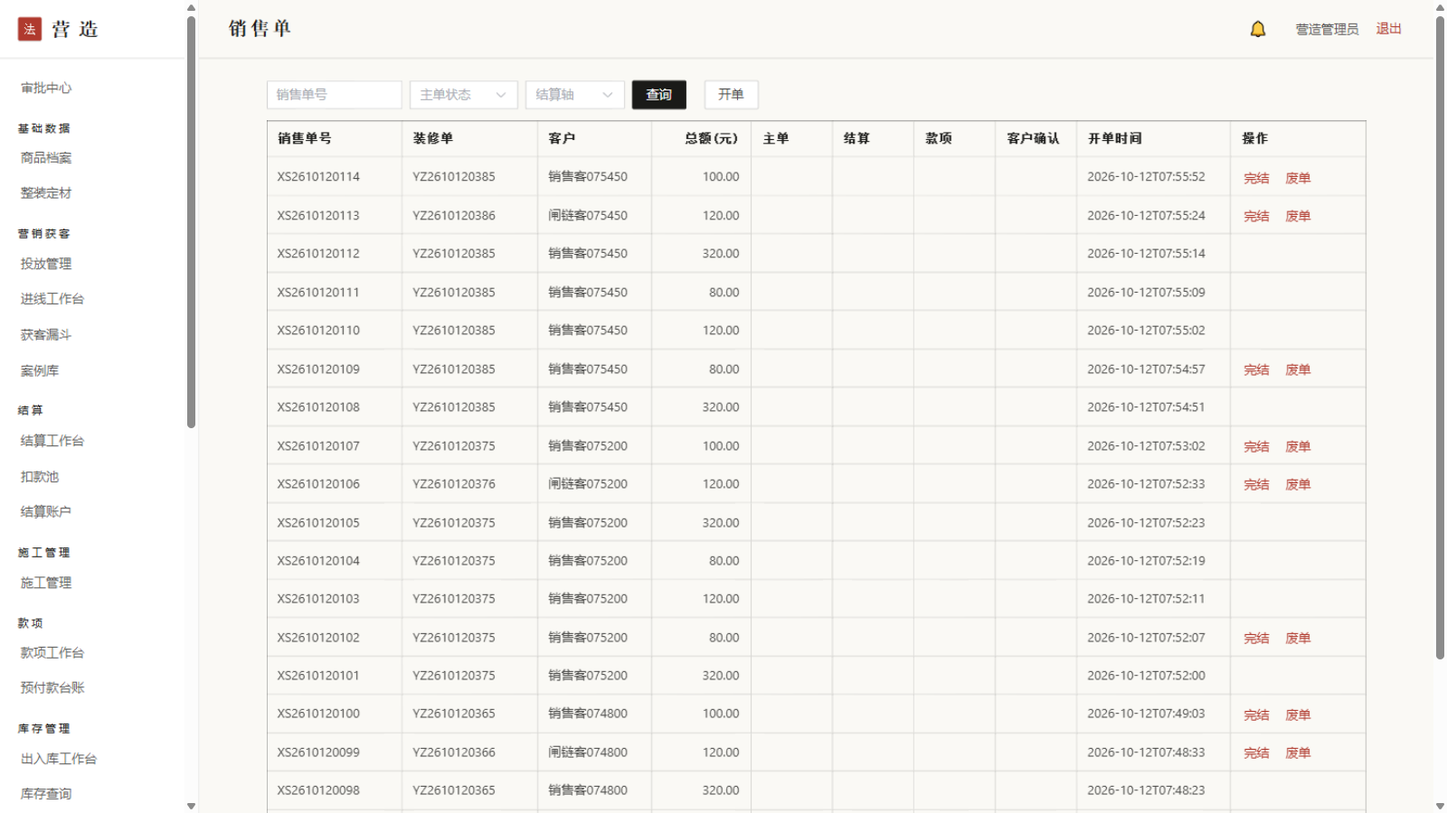
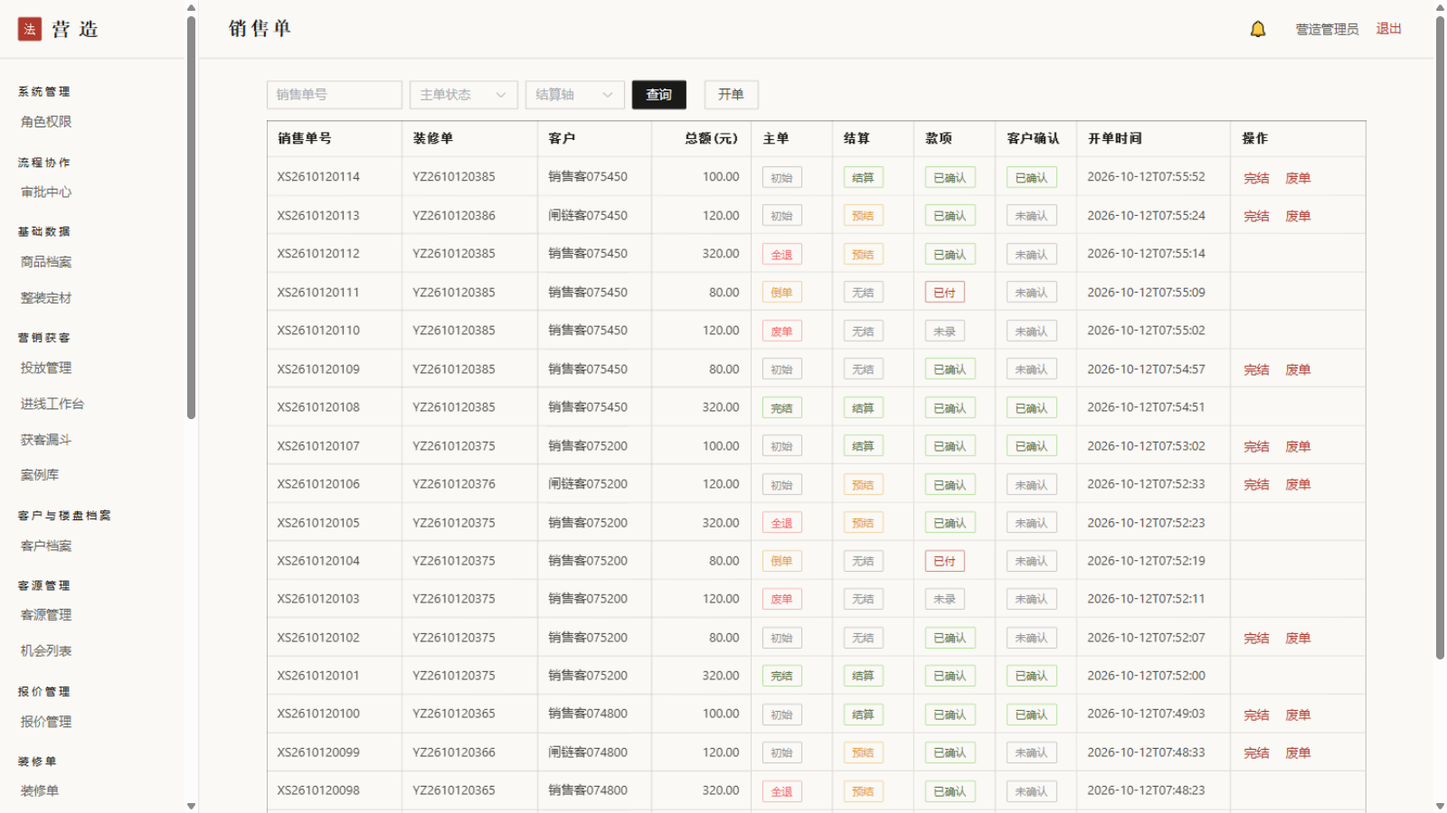
style(web)+style(app): 菜单按业务链固定排序+全局去白统一纸色(用户三轮反馈:侧栏白色/菜单顺序/元素白底残留)。①Layout.vue菜单MENU_ORDER固定业务链序:系统管理(角色权限,仅admin)→流程协作(审批中心)→基础数据→营销获客(漏斗顶端)→客户档案→客源→报价→装修单→施工→销售→库存→款项→结算,组名沿用插件名,未登记插件自动追加尾部前向兼容,非admin自动滤系统组;②侧栏#FFFFFF→var(--yz-paper)融入纸白暖底与内容区同色,仅右缘细墨线分隔;③yingzao.css全局去白(Element Plus变量级):--el-fil

diff --git a/web/src/views/Layout.vue b/web/src/views/Layout.vue
@@ -1,14 +1,13 @@
 <template>
   <div class="shell">
-    <!-- 倒 L 布局:左侧竖向菜单(按插件分组)+顶栏(页题/通知/用户) -->
+    <!-- 倒 L 布局:左侧竖向菜单(按业务链固定顺序分组)+顶栏(页题/通知/用户) -->
     <aside class="sidebar">
-      <div class="brand" @click="$router.push(menus.length ? menus[0].path : '/approvals')">
+      <div class="brand" @click="$router.push(firstMenuPath)">
         <span class="yz-seal-stamp stamp">法</span>
         <span class="logo yz-display">营造</span>
       </div>
       <nav class="menu">
-        <router-link to="/approvals" class="menu-item" :class="{ active: $route.path === '/approvals' }">审批中心</router-link>
-        <template v-for="group in groupedMenus" :key="group.addon">
+        <template v-for="group in menuGroups" :key="group.key">
           <p class="group-name">{{ group.name }}</p>
           <router-link
             v-for="m in group.items"
@@ -17,10 +16,6 @@
             class="menu-item"
             :class="{ active: $route.path === m.path }"
           >{{ m.title }}</router-link>
-        </template>
-        <template v-if="isAdmin">
-          <p class="group-name">系统管理</p>
-          <router-link to="/roles" class="menu-item" :class="{ active: $route.path === '/roles' }">角色权限</router-link>
         </template>
       </nav>
     </aside>
@@ -53,19 +48,44 @@ const displayName = ref(localStorage.getItem('yz_display_name') || '')
 // 管理类入口可见性(RBAC):以登录回显的角色编码为准,服务端守卫才是真闸门
 const isAdmin = JSON.parse(localStorage.getItem('yz_roles') || '[]').includes('admin')
 
-// 左侧菜单按插件分组(组名 = addon.yml 的插件名),保持后端下发顺序
-const groupedMenus = computed(() =>
-  addons.list
-    .map((a) => ({ addon: a.id, name: a.name, items: a.menus || [] }))
-    .filter((g) => g.items.length > 0)
+// 左侧菜单固定业务链顺序:系统 → 流程 → 数据 → 获客 → 客户 → 订单履约(报价/装修/施工)→
+// 供应销售(销售/库存)→ 资金(款项/结算);未登记插件自动追加尾部(前向兼容)
+const MENU_ORDER = ['roles', 'approvals', 'basedata', 'market', 'customerprofile', 'customer',
+  'quotation', 'decoration', 'construction', 'sales', 'inventory', 'payment', 'balance']
+
+const menuGroups = computed(() => {
+  const byKey = {
+    roles: { key: 'roles', name: '系统管理', items: [{ path: '/roles', title: '角色权限' }] },
+    approvals: { key: 'approvals', name: '流程协作', items: [{ path: '/approvals', title: '审批中心' }] },
+  }
+  for (const a of addons.list) {
+    if (a.menus && a.menus.length > 0) {
+      byKey[a.id] = { key: a.id, name: a.name, items: a.menus }
+    }
+  }
+  const groups = []
+  const used = new Set()
+  for (const key of MENU_ORDER) {
+    if (byKey[key]) {
+      groups.push(byKey[key])
+      used.add(key)
+    }
+  }
+  for (const key of Object.keys(byKey)) {
+    if (!used.has(key)) groups.push(byKey[key])
+  }
+  return isAdmin ? groups : groups.filter((g) => g.key !== 'roles')
+})
+
+const firstMenuPath = computed(() =>
+  (menuGroups.value[0] && menuGroups.value[0].items[0] && menuGroups.value[0].items[0].path) || '/approvals'
 )
 
 onMounted(async () => {
   const list = await loadAddons()
   registerAddonRoutes(list)
   if (router.currentRoute.value.path === '/') {
-    const first = groupedMenus.value[0] && groupedMenus.value[0].items[0]
-    if (first) router.push(first.path)
+    router.push(firstMenuPath.value)
   }
 })
 
@@ -83,11 +103,11 @@ function logout() {
   background: var(--yz-paper);
 }
 
-/* 左侧栏:白纸面+右缘细墨线;brand=朱印方章+宋体 */
+/* 左侧栏:融入纸白暖底(与内容区同底色)+右缘细墨线;brand=朱印方章+宋体 */
 .sidebar {
   width: 220px;
   flex-shrink: 0;
-  background: #FFFFFF;
+  background: var(--yz-paper);
   border-right: 1px solid var(--yz-line);
   display: flex;
   flex-direction: column;

diff --git a/app/src/App.vue b/app/src/App.vue
@@ -67,9 +67,9 @@ page {
   text-orientation: upright;
 }
 
-/* 卡片:白纸面+细墨线+方角(材分制:4rpx=2px 微圆角) */
+/* 卡片:纸面+细墨线+方角(与全局纸底同色,靠淡墨线成形;材分制:4rpx=2px 微圆角) */
 .card {
-  background: #FFFFFF;
+  background: var(--yz-paper);
   border: 1rpx solid var(--yz-line);
   border-radius: 4rpx;
   padding: 24rpx;
@@ -120,7 +120,7 @@ page {
   border-radius: 4rpx;
   border: 1rpx solid var(--yz-line);
   color: var(--yz-ink-70);
-  background: #FFFFFF;
+  background: var(--yz-paper);
 }
 
 .btn-mini.success { color: var(--yz-moss); border-color: rgba(90, 114, 71, 0.4); }

diff --git a/web/src/styles/yingzao.css b/web/src/styles/yingzao.css
@@ -40,6 +40,10 @@
   --el-border-color-lighter: rgba(26, 26, 24, 0.10);
   --el-fill-color-light: #F1EFE8;
   --el-fill-color-lighter: #FAF9F5;
+  /* 全局去白:输入框/默认按钮/弹层/抽屉统一纸白暖底(废 #FFFFFF 残留) */
+  --el-fill-color-blank: #FAF9F5;
+  --el-bg-color: #FAF9F5;
+  --el-bg-color-overlay: #FAF9F5;
   --el-text-color-primary: #1A1A18;
   --el-text-color-regular: rgba(26, 26, 24, 0.78);
   --el-text-color-secondary: rgba(26, 26, 24, 0.50);

diff --git a/AGENTS.md b/AGENTS.md
@@ -66,7 +66,7 @@
 - 🔴 冒烟请求含中文必须用 python urllib(UTF-8),Git Bash 的 curl 发中文 = GBK 炸 JSON;
 - jar 被锁:按 8080 端口找 PID `taskkill //PID x //F`。
 
-## 当前进度(2026-10-12 夜间自动任务更新,第 30 次运行)
+## 当前进度(2026-10-12 夜间自动任务更新,第 31 次运行)
 
 - ✅ 41 模块过堂终版;插件框架六点代码化;客源→客户细链冒烟 7/7(b1bde89);客源 V2 分配链冒烟 12/12(9689f13);内核通知中心冒烟 16/16(0d7c914);内核轻量审批状态机冒烟 25/25(b68eb4f);示范插件 addon-example+Web 通知/审批工程页冒烟 28/28(e148667);
 - ✅ **uni-app 移动端骨架 `app/`**(第 6 次,一码三出):uni-app + Vue3 + Vite(@dcloudio 统一 3.0.0-alpha-5030120260930001,vite 5.2.8);八页 = 登录/工作台/客源登记/我的机会/我的审批(三视角+详情全操作)/通知列表/我的;API_BASE 条件编译;`build:h5`/`build:mp-weixin`/`build:app` 三端构建全绿;真机运行待 uni-app 账号与 appid;
@@ -100,13 +100,14 @@
 - ✅ **addon-sales V1 写码交付(第 24 次,写码模式第八个 addon:主材销售域,冒烟 673→864 步全绿终态见第 25 次首验;提交 3ad3e0d)**:①addons-api 新增两契约 `SalesOrderCreatedEvent`/`SalesOrderStatusChangedEvent`(action 键 fullRefund/countermand/finish/terminate)与 **`SalesApi` 只读契约**(collectedRatio 装修单名下销售款收款比例‰,消费方=施工闸)+ **PaymentApi 扩展 `submitRefund`**(实现在 addon-payment,整单退款+270012 幂等闸)+ **GoodsApi 扩展**(GoodsSummary 增 brandId/brandName 结算分组快照+listPackageItems 套餐成员只读,空列表=降级信号);②V1101 十表(counter/order 主单**四轴状态机**(主单轴沿老编号 0/2/3/4/5 缺1 保留+结算轴+款项轴+确认位)/item(package_id 套餐父子+五计数,xgnum 基线=num)/settlement(三段式 1单N品牌行,uk(org,sale,brand,type,rid) 兜底幂等)/refunds 族(审批驱动 3→0→1→2)/delivery 族(四级每级操作人+时间 8 列)/track/verify_code);③服务端算价拒前端金额(disPrice=selling×discount/1000→total=disPrice×num/1000 HALF_UP 长整);开单=DecorationApi 校验合同线非废单终止+套餐展开(子项不计总额老口径,空配置降级普通商品)+单号 XS+yyMMdd+4 位流水(uk 撞号重试不裸炸);改单全量替换守卫款项未付,已录未付自动 cancel+create 同步款项单;客户确认**三重校验服务端强制**(phone+code 同传,修老单传其一即绕过;验证码落表 10 分钟+通知中心转告,短信 V2);完结守卫全款确认+无未完配送;废单守卫四轴全初始放宽款项未付+联动 cancelBill;④**付款三事件回写**(collect→轴1/confirm→轴2+按品牌分组生成预结算行 insert ignore uk 幂等+结算轴 0→1/refunded→退货单已退款)+**库存四事件回写**(XG 扣 xgnum 原子守卫不足=超卖 300008 死信可见/删行回加/PU 加 punum/采购释放扣 punum 修老永不释放与 inventory 直改本域表;计数回写依赖总线 at-least-once 消费确认,exactly-once 待总线幂等表 V2);⑤结算三段式 vpost/post 条件 UPDATE+**vbalance/pbalance 双值人工修正服务端强校验非零且与金额同向**(修老拦截纯前端)+主单结算轴=行最小态重算+**驳回整单原子**(修老只删当前行兄弟残留);让利公式老三套量纲不自洽不迁 V1 balance=total;⑥退货=发起(300025 防重+**发起即原子预扣明细 num** 驳回回加)+内核轻量审批(AFTER_COMMIT+REQUIRES_NEW 军规8 SalesRefundApprovalListener:通过→主单轴 0/5→2/3,驳回→置无效+回加)+客户确认(三重+幂等)→**退货结算负值行**(守卫主单已预结 300019 显式报错修老静默;rid 幂等 300018)+**全退且金额一致→自动 submitRefund**(部分退/不符 300026 落人工);⑦配送=批次生成(守卫初始/完结+款项已付)+四级推进条件 UPDATE+留痕+**越级 300022 显式报错修老静默 continue**+完结回写 trnum;品牌跳级与分成克隆(PRD 默认砍)不迁;⑧**construction 销售款闸启用**(stacheck/fincheck 经 SalesApi,colletionRatio 聚合,免检位语义与装修款闸一致,新码 240025 双语);⑨错误码 300001-300031 同码同消息+i18n 中英双语;addon.yml 0.1.0(码段 300000/三菜单:销售单+结算工作台+配送履约/十组 dicts);⑩Web 三页(SalesOrders 列表四轴徽章+开单+详情抽屉全流转+SalesSettlements 结算工作台+Deliveries 配送看板),api/index.js 二十二函数,菜单动态注册零硬编码;⑪验证:npm build 全绿+dev 库 V1101 十表迁移成功(MySQL 5.6 日志实证)+冒烟最好一轮 **732/735**(3 fail=坏载荷死信环境性×1+**结算占位符错位 bug×2 已修复落码**:insert ignore 12 参对 11 位改 10?10 参)+**库中全链数据实证**(预结两品牌分组/双值修正/厂结/主单轴 3/整单驳回/退货审批/负值行/全退自动退款→PaymentRefundedEvent→退货单已退款);途中冒烟抓出并修复五处:①RefundApprovalListener 与 payment 同名 bean 冲突→更名 SalesRefundApprovalListener ②create() 把计数器 seq 当主单 id→改 insert 后 last_insert_id() ③撞号裸炸 110000→uk 撞号重试 3 次 ④syncBill 未录态误建款项单→updateItems 仅已录态重建/generateBill 无条件确保 ⑤占位符错位(见上);🔴下轮首验已由第 25 次兑现(见下条);自主决策(款项轴 V1 单全款线协议键 sales_full 定金线 V2/免付款通道不迁/让利公式不迁 balance=total/全局唯一流水修老公司级日流水/主单轴沿老编号/结算 4 完结旁路态不迁/验证码经通知转告短信 V2/计数回写幂等妥协声明/部分退货退款落人工/品牌跳级与分成克隆不迁)见报告 §五;
 - ✅ **addon-sales V1 首验全绿收官(第 25 次,第 24 次"下轮首验"兑现)**:①mvn clean package 复编译全绿+npm build 全绿+起服务补齐 smoke README 快退避五环境变量(BACKOFFSECONDS=1/BACKOFFCAP=5/MAXRETRIES=2/POLLINTERVAL=2000/POLLINITIALDELAY=3000);②**冒烟 864/864 全绿一次通过**(673→864;第 24 次 732/735 系 sales 段中途失败提前 return finish() 的截断计数,本夜完整跑通,死信链首次转绿);③增补修复三处(代码已随 3ad3e0d 入库):**退款落人工不阻塞客户确认**(submitRefundForFull 原对金额不符抛 300026 会回滚部分退货的确认事务,违 PRD"落人工"口径→改 refundManual 轨迹留痕,300026 码位保留)/**部分退货不置主单轴**(onApprovalFinished 原一律置 2/3 打死完结,改 drained 判定=主项 SUM(num)=0 才置轴,回归老系统"退货不改主单轴"正统语义 rules/sales.md §5,冒烟互斥断言同步修正)/**冒烟健壮性**(死信固定 sleep 25s 改轮询至多 75s,修默认 60s 退避基数下的必假死+对账 SQL pymysql 参数化后字面 % 转义 %%);④第 24 次 §三"宿主机进程异常"根因实证=**平行无人值守会话遗留后台任务树互杀**(模式:轮询 8080→taskkill 当前持有者→自起 jar→跑冒烟,排队任务陆续触发;PowerShell 哨兵按会话 id 匹配命令行两轮清杀 20+ 排队 bash 后环境清净,冒烟一次全绿);**运行纪律两条**:夜间任务起服务前必查 8080 占用与遗留 java/后台任务(本机可能存在平行会话)/冒烟失败先查服务存活与事件表状态,区分产品缺陷·环境互扰·时序脆弱三类再动手;详见 docs/reports/2026-10-13-第25次运行总结.md;
 - ✅ **addon-balance V1 写码交付(第 26 次,写码模式第九个 addon:结算汇聚域,冒烟 864→1001 全绿一次通过)**:①addons-api 四契约 `SettlementItemReadyEvent`(上游携金额快照,退货行负值生成侧完成)/`SettlementItemWithdrawnEvent`(上游撤回,未锁定桶摘行重算,锁定后死信)/`SettlementItemReleasedEvent`(balance→上游解绑退回,上游自回置对账状态,废直写三字段)/`SettlementSettledEvent`;②addon-sales 回补首个上游接入:结算行 post(结算)发布 Ready(快照=行终值,vpost 不发金额未定),替代老 SALES_AUTO_BALANCE 跨模块服务直调;③V1301 八表(统一结算单+快照行 **uk(source 三元组) 全局只挂一单修老外销防重缺失**/account uk(org,belonger,type) 净头寸不变式 surplus=refer−real/account_detail append-only/池/扣款单/子流水仅留痕修老双计/轨迹全动作覆盖)MySQL 5.6 兼容;④吸附聚桶键=org+settlement_type(sourceAddon:sourceType 复合协议键)+brand+supplier+grade,**select for update 串行化建桶修老并发双桶**;同键同金额重放幂等/同键异金额=上游修正(仅初始态);⑤四态机 0→1→2(可选审)→3→4,终态写拒全断言;⑥账户双腿收编 f384101d3 终态:台账腿原子消耗结算单余量+出纳现金腿原子扣减+**归属账户懒开户同步(insert ignore 兜并发,允许透支=预付)**+守卫族(类型/归属一致/停用/金额恒正)+补出纳入金 cashIn(老收款单语义);⑦扣款池三守卫闭环(池原子 SQL/unbind·deduct 状态守卫/金额恒正)+bind-unbind 精确逆操作对称+绑定时机统一为结算后+返款仅字典预留;⑧完结唯一定义=显式端点(已结算+surplus 清零+已付款)单向无逆向+付款标批量全或无;⑨错误码 320001-320025 双语+addon.yml 0.1.0(三菜单+八组 dicts 含修老字典缺 0 键);⑩Web 三页 Settlements(四态列表+详情抽屉明细快照/双腿操作/流水 timeline)+Accounts(建户/停启/入金/流水)+Cutpays(池+扣款单闭环),api/index.js 三十一函数;⑪验证:mvn+npm 双绿+V1301 迁移成功+冒烟 **864→1001/1001 全绿一次通过**(balance 段 137 步含 sales 真链端到端 post 事件吸附/双死信/不变式 pymysql 直查);⑫途中冒烟抓出并修复:**page 分页查询 List 未 toArray 八处**(queryForList(sql,List) 把 List 当 varargs 单元素绑定→param2 missing 列表端点全 500——balance 四处当场修+**addon-sales 四处潜伏**(orders/refunds/deliveries/settlements 列表,第 24 次冒烟只打 detail 未覆盖,Web 页一开即 500))+冒烟自身三处(漏财务确认步骤/固定 supplier 复跑污染→归属人时间戳化可重复执行/URL %3A 撞 % 格式化);自主决策(绑定时机统一结算后/折扣仅初始态/pending 不迁/返款预留/出纳入金补齐/完结显式端点/供应商身份字符串 grade 上游携带/聚桶含 sourceType/sales vpost 不发/修正语义/停用池闸/吸附零 REST 旁路)见报告 §三;
+- ✅ **菜单业务链排序+全局去白统一纸色(第 31 次,用户三轮反馈:侧栏白色/菜单顺序/元素白底)**:①Layout.vue `MENU_ORDER` 固定业务链序=系统管理(角色权限,admin)→流程协作(审批中心)→基础数据→营销获客(漏斗顶端)→客户档案→客源→报价→装修单→施工→销售→库存→款项→结算;未登记插件自动追加尾部前向兼容,非 admin 滤系统组;②侧栏 `#FFFFFF`→`var(--yz-paper)` 融入纸底仅右缘细墨线;③yingzao.css 全局去白:`--el-fill-color-blank/--el-bg-color/--el-bg-color-overlay`→#FAF9F5,输入框/下拉/默认按钮/弹层/抽屉/分页全部纸色化,grep 零 #fff 字面量;④app 端 .card/.btn-mini 同口径纸色靠墨线成形;⑤screenshots/web 十张重截;web build+app build:h5 全绿;自主决策(获客排客户前/报价施工并入订单段/组织架构预留顺序位)见报告 §三;
 - ✅ **管理后台倒 L 布局 + 业务页脱离布局根因修复(第 30 次,用户反馈"进入具体页面无法访问其他页面")**:①🔴根因=registerAddonRoutes 用 addRoute('/',…) 按父名挂载而 '/' 路由无 name,vue-router 解析不到父路由把业务页注册成顶层路由——顶部导航从未在业务页出现(功能 bug 非视觉偏好);修复='/' 显式 name:'layout'+addRoute('layout',…) 挂为布局子路由,导航全页常驻;②Layout.vue 重写为**倒 L**(用户拍板):左侧 220px 分组菜单(brand 朱印方章+宋体移入侧栏/组名=插件名淡墨小字/激活项左缘朱印条+纸深底/审批中心置顶+角色权限归系统管理组仅 admin)+顶栏(宋体页题+通知铃+用户+退出);菜单 24 项竖排分组,横排溢出一并消解;③docs/screenshots/web 十一张全部重截(倒 L 版);web npm build 全绿;
 - ✅ **README 截图预览+双端定档+两个 Web 路由 bug 修复(第 29 次,用户提议截图/问双端)**:①docs/screenshots 16 张(Web 11@1600×900+app H5 5@390×844,浏览器自动化,dev 冒烟库假数据)+README「界面预览」图文两节;②README「双端形态」定档=同一后端双前端应用(员工端现有 app/账号密码+RBAC;客户端=规划中独立 uni-app 工程+官网 Web,案例报名/施工进度对外/名片/会员积分,手机验证码/openid,匿名端点归 RBAC v2 段,后端零分叉),路线图 2.5 补条目,**客户端工程排期挂 RBAC v2 之后不立空壳**;③🔴**深链接失效修复**(main.js:先 mount 后注册动态路由→直连/刷新业务 URL 被 pathMatch 甩到第一个菜单,用户浏览器刷新即复现;修为 loadAddons→register→mount);④🔴**菜单 path 与组件文件名失配修复**(registerAddonRoutes 约定 path 末段 PascalCase=文件名,Decorations/SalesOrders/SalesSettlements 三文件单复数失配→装修单/销售单/销售结算三菜单路由从未注册;菜单 path 系 RBAC 授权契约不可改,git mv 组件对齐;python 全量盘点 23 菜单失配清零);⑤app index.html viewport document.write 泄漏修复(uni-app 模板拼串写成分离文本);web npm build 全绿+深链接回归全过;
 - ✅ **app(uni-app)端样式对齐方向三(第 28 次,用户拍板:视觉验收默认通过/app 对齐推进/凭证后续补齐)**:App.vue 全局 token 化(纯 CSS 变量挂 page 选择器零新依赖,三端通用;纸白/墨黑/朱印红唯一点缀/苔绿/赭金,方角 4rpx,新增 yz-display·yz-eyebrow·yz-seal 品牌工具类)+pages.json 导航栏 tabBar 纸白墨黑+login 古籍扉页重做(朱印方章+双线版框+版心尾注)+九页 scoped 色值清零(审批 tab 激活朱印红/通过苔绿驳回朱印转交赭金/fab·头像墨黑方章);build:h5·mp-weixin·app 三端全绿;自主决策(tabBar 选中墨黑非朱印保持唯一点缀/warning=赭金 A6864B/success=苔绿同 web/badge 头像方角化)见报告 §三;
 - ✅ **addon-market V1 写码交付(第 27 次,写码模式第十个 addon:营销获客域,行业插件套件 V1 收官,冒烟 1001→1087 全绿)**:①addons-api 两契约 `InboundAcceptedEvent`(载荷携 phoneHmac 明文不进 outbox)/`MarketApi`(beginAccept 幂等闸/acceptResult 回写/revealPhone 解密留痕,实现在 addon-market);②addon-market V1001 十三表:campaign(0草稿→2发布→3停用→5归档,老死态不迁,发布后编辑拒)/channel(**带恢复接口修老停用即终局**)/source(渠道码 16hex 服务端生成+uk DB 兜底+URL+UTM 三件套)/inbound(**uk(org,idempotent_key) 幂等键 DB 兜底**+归因三键冗余+手机 cipher/hash 双轨+case_name 快照)/inbound_item(EAV)/attribution(insert-only 逐级落行 0提交/1建客源/2建机会)/track(submit/retry/ignore/acceptFail 修老 retry 无日志)/phone_access_log(解密留痕)/案例库四表(城市人物 uk 查重+使用中删守卫/案例上下架+删除级联图片+效果图 cycle 锁 0);③登记三重校验(源存在启用归属一致→活动已发布→渠道启用)+匿名进线显式 allowAnonymous(禁掺 UUID)+并发同键仅一条(幂等查询+DB uk 双兜底);④**承接事件化**(PRD 红线兑现):登记发 InboundAcceptedEvent→addon-customer 消费(0.3.0 回补 MarketInboundConsumer+InboundAcceptService)→单事务「认领 0→3→解密留痕→建客源(chance 档 auto 派发机会)→回写 3→1+归因」→业务失败整体回滚+置 2 留因(人工 retry/ignore,无孤儿数据);⑤漏斗按活动/渠道两级四级计数(有效进线=status1 口径);⑥报名=一种进线入口(复用幂等/密文/承接,废老独立明文 ecustomer);⑦错误码 280001-280026 双语+addon.yml 0.1.0(四菜单/十组 dicts);⑧Web 四页(Campaigns 三 tab 投放物+**qrcode 二维码弹窗**/Inbounds 工作台+详情抽屉/Funnels 漏斗条/Showcase 案例库四 tab),api/index.js 四十四函数;⑨验证:mvn+npm 双绿+V1001 迁移成功(MySQL 5.6)+冒烟 **1001→1087/1087 全绿**(market 段 86 步:状态机守卫族/UTM 拼接/承接端到端(客源+机会实证)/幂等命中回全量/两并发同键/匿名链失败留痕-重试-忽略全闭环/漏斗计数/案例库守卫族/密文+留痕 pymysql 直查/事件重放幂等/级联删除/总线对账零滞留);途中冒烟抓出并修复两处产品 bug:**建案例 insert 占位符错位**(type 列被字面 0 顶掉 12>11 全 500,第 24 次同款坑)+caseDetail 复用守卫查询缺列;冒烟脚本自身四处(重名断言先于首建/int(stamp) 带字母/280010 幽灵源构造错位/api_err 缺 body×4);自主决策(承接失败即时置 2 不走总线重试/匿名进线承接必失败人工兜底/幂等键服务端唯一口径不暴露 clientKey/归因逐级落行替代单条推导/承接中态 3 显式建模/case_name 快照/拼音自动生成砍掉/C 端露 10 条不迁/报名验证码不迁走登录态端点/预算入厘)见报告 §三;
 - ⏳ 待用户(2026-10-12 拍板:视觉验收默认通过/app 对齐推进/凭证后续补齐不阻塞):真机视觉验收(appid)/ 企微钉钉凭证 / Docker 环境;
 - ⏳ 可自动推进(**写码模式路线图 ①-⑨ 全部完成,行业插件套件 V1 收官**):~~①addon-basedata V1~~(✅ 第 18 次)~~②addon-payment V1~~(✅ 第 19 次,含内核事件总线三件套)~~③addon-decoration V1~~(✅ 第 20 次,事件回程车首战)~~④addon-quotation V1~~(✅ 第 21 次)~~⑤addon-construction V1~~(✅ 第 22 次)~~⑥addon-inventory V1~~(✅ 第 23 次)~~⑦addon-sales V1~~(✅ 第 24 次交付+第 25 次首验 864/864)~~⑧addon-balance V1~~(✅ 第 26 次,冒烟 1001/1001)~~⑨addon-market V1~~(✅ 第 27 次,冒烟 1087/1087);**下一阶段候选**:跨域回归+九域规则交叉核对第二遍(十一插件 V1 全交付的自然节点)/ 事件总线 Spring 监听渐进迁移(customer LeadConverted 链首选)/ RBAC v2 按 §9 实施清单写码(报名/官网开放匿名端点依赖此项)/ addon-supplier 厂商主数据 / addon-member 会员营销(积分商城)/ customerprofile 楼盘·房屋与 /api/events Web 管理页补齐 / basedata Excel 导入器 V1.1 / decoration 决算六项检查配置表 V2 / app 端样式对齐方向三;
-- 📋 每晚自动任务收尾:`docs/reports/<日期>-总结.md`(同日多运行按次序号区分),最新=2026-10-12-第30次运行总结.md。
+- 📋 每晚自动任务收尾:`docs/reports/<日期>-总结.md`(同日多运行按次序号区分),最新=2026-10-12-第31次运行总结.md。
 
 ## Git 纪律
 

diff --git a/docs/reports/2026-10-12-第31次运行总结.md b/docs/reports/2026-10-12-第31次运行总结.md
@@ -1,0 +1,36 @@
+# 2026-10-12 第 31 次运行总结:菜单按业务链排序 + 全局去白统一纸色(用户反馈三轮:侧栏白色/菜单顺序/元素白底)
+
+> 用户连续三轮视觉反馈:①侧栏白色与内容区不一致;②菜单按业务顺序排(系统-审批-数据-客户-订单-销售-款项…);③页面部分元素背景残留白色。本批全部落实:菜单固定业务链顺序、侧栏融入纸底、Element Plus 全局去白。web build+app build:h5 全绿。
+
+## 一、做了什么
+
+1. **菜单固定业务链顺序(Layout.vue)**:`MENU_ORDER` 固定序 = 系统管理(角色权限,仅 admin)→ 流程协作(审批中心)→ 基础数据 → 营销获客(漏斗顶端)→ 客户档案 → 客源管理 → 报价 → 装修单 → 施工 → 销售 → 库存 → 款项 → 结算;组名沿用插件名;**未登记插件自动追加尾部**(前向兼容,新增插件即插即显);非 admin 自动滤掉系统管理组;
+2. **侧栏融入纸底**:sidebar `#FFFFFF` → `var(--yz-paper)`,与内容区同底色,仅右缘细墨线分隔(上一批已改,本批截图入册);
+3. **全局去白(yingzao.css Element Plus 变量级)**:`--el-fill-color-blank/--el-bg-color/--el-bg-color-overlay` → `#FAF9F5`——输入框/下拉/默认按钮/弹层/抽屉/分页条全部纸色化,消灭残留纯白;grep 复核 web src 零 `#fff` 字面量;
+4. **app 端同口径**:App.vue `.card` 与 `.btn-mini` 白底 → 纸色(uni-app 端卡片靠淡墨线成形);
+5. docs/screenshots/web 十张业务页全部重截(新菜单顺序+去白版)。
+
+## 二、验证终态
+
+- web `npm run build` 全绿(13.95s)+ app `build:h5` 全绿;
+- 浏览器实证(结算工作台):侧栏顺序=系统管理→流程协作→基础数据→营销获客→客户与楼盘档案→客源管理→报价管理→装修单…;侧栏与页面同纸色;查询输入框/下拉纸色化;激活项左缘朱印条+纸深底清晰。
+
+## 三、自主决策记录
+
+1. 营销获客排在"基础数据"与"客户"之间(漏斗顶端获客→客户的业务流向);
+2. 报价/施工并入订单履约段(报价→装修单→施工三部曲),库存跟销售段,结算跟款项段;
+3. "组织架构"当前无对应功能(单层组织无管理界面),预留顺序位,未来插件就位自然插入;
+4. app 卡片从白底改纸色后靠 1rpx 淡墨线成形(方向三"平"的纸面语言)。
+
+## 四、待用户决策清单
+
+沿用:客户端工程排期、README 效果过目。
+
+## 五、下次执行建议
+
+按既定顺序:跨域回归+九域规则交叉核对第二遍 → RBAC v2 写码 → addon-supplier / addon-member。
+
+## 六、提交
+
+- 本批:Layout.vue 菜单业务序/yingzao.css 全局去白/App.vue 卡片按钮纸色/screenshots 十张重截/本报告/AGENTS.md;
+- 零后端改动。
